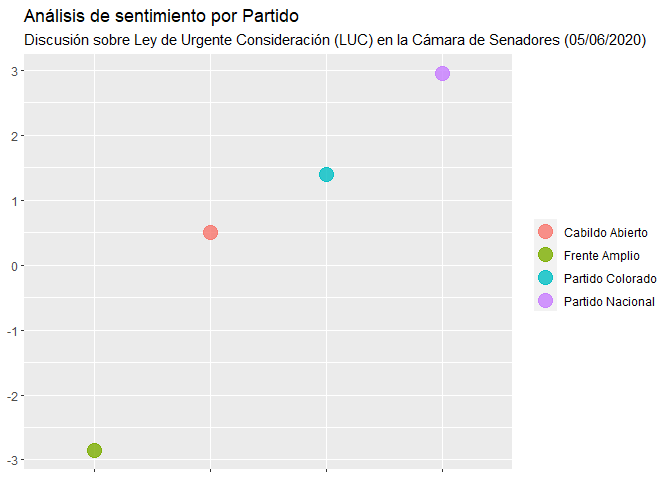
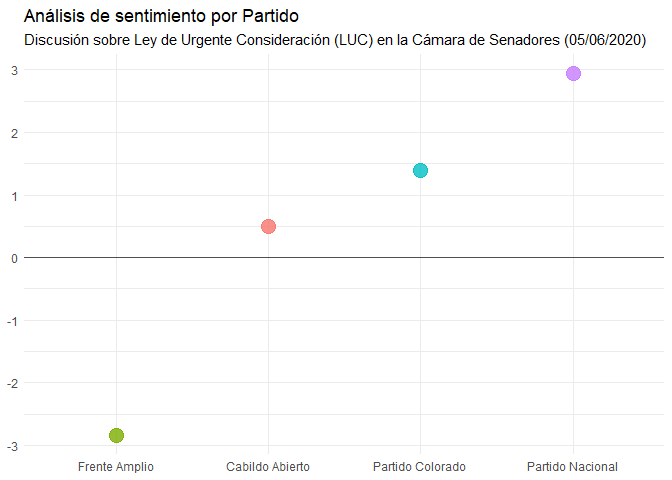
estetica

diff --git a/README.md b/README.md
@@ -1,28 +1,27 @@
 
 ## Ejemplos y usos del paquete `speech` :page\_with\_curl: <img src='figures/logo.png' align="right" height="180" />
 
-*Nicolás Schmidt*
-
-*Elina Gómez*
+*Nicolás Schmidt*, *Elina Gómez*
 
 ![visitors](https://visitor-badge.glitch.me/badge?page_id=Nicolas-Schmidt.speech-ejemplos)
 
 ### Índice
 
-  - [Descripción del paquete `speech`](#descripción)
-  - [Características del paquete `speech`](#características)
-  - [Ejemplos](#ejemplos)
-      - [Ejemplo 1: Primer sesión desde la restauración
+-   [Descripción del paquete `speech`](#descripción)
+-   [Características del paquete `speech`](#características)
+-   [Ejemplos](#ejemplos)
+    -   [Ejemplo 1: Primer sesión desde la restauración
         democrática](#ejemplo-1)
-      - [Ejemplo 2: Sesión sobre creación de Consejos de
+    -   [Ejemplo 2: Sesión sobre creación de Consejos de
         Salarios](#ejemplo-2)
-      - [Ejemplo 3: Sesión reciente de la Comisión
+    -   [Ejemplo 3: Sesión reciente de la Comisión
         Permanente](#ejemplo-3)
-      - [Ejemplo 4: Descarga de sesiones según rango
+    -   [Ejemplo 4: Descarga de sesiones según rango
         temporal](#ejemplo-4)
-  - [Posibles aplicaciones](#aplic)
-  - [Usos de `speech`](#usos)
-  - [Aplicación web de `speech` y `puy`](#aplicación-web)
+-   [Posibles aplicaciones (nube de palabras, tópicos en contexto y
+    análisis de sentimientos)](#posibles-aplicaciones)
+-   [Usos de `speech`](#usos)
+-   [Aplicación web de `speech` y `puy`](#aplicación-web)
 
 ### Descripción
 
@@ -57,8 +56,7 @@ use la función y que cada fila de la base de datos sea cada una de las
 intervenciones de cada legislador en cada momento. Esto quiere decir que
 se va a tener tantas intervenciones por legislador como cuantas
 intervenciones haya realizado en esa sesión. La otra opción (usando
-[`speech_build(., compiler =
-TRUE)`](https://nicolas-schmidt.github.io/speech/reference/speech_build.html)
+[`speech_build(., compiler = TRUE)`](https://nicolas-schmidt.github.io/speech/reference/speech_build.html)
 o
 [`speech_recompiler()`](https://nicolas-schmidt.github.io/speech/reference/speech_recompiler.html))
 es que cada fila de la base de datos sen todas las intervenciones juntas
@@ -116,11 +114,11 @@ library(speech)
 Vamos a ver 3 ejemplos que presentan distintos problemas y niveles de
 complejidad en su procesamiento:
 
-  - El diario de sesión de la Asamblea General de la reapertura
+-   El diario de sesión de la Asamblea General de la reapertura
     democrática: 15 de febrero de 1985.  
-  - Un diario de sesión sobre la creación de los consejos de salarios
+-   Un diario de sesión sobre la creación de los consejos de salarios
     del 13 de octubre de 1941.  
-  - Un diario de sesión reciente de una sesión convencional de la
+-   Un diario de sesión reciente de una sesión convencional de la
     Comisión Permanente del 17 de setiembre de 2019
 
 ### Ejemplo 1
@@ -778,7 +776,6 @@ en formato base de datos luce ordenado y limpio. Lo único que resta
 hacer es agregar la etiqueta partidaria con el paquete `puy`.
 
 ``` r
-
 library(puy)
 
 text2 <- add_party(text2)
@@ -828,10 +825,10 @@ problema es que hay datos duplicados con distinto nombre de legislador.
 Es decir, en dos casos hay más de un legislador que tiene el mismo
 apellido en la misma legislatura. En estos casos la solución es ir al
 diario de sesión y verificar en asistencia quien es el político que
-actuó en esa sesión. En este caso el nombre de los dos políticos que
-son de esta sesión son: `CHOUHY TERRA, Jose L.` y `GONZALEZ, Carmelo R`.
-De esta manera procedemos a eliminar a los otros legisladores y podemos
-dar por terminado el procesamiento de este diario de sesión.
+actuó en esa sesión. En este caso el nombre de los dos políticos que son
+de esta sesión son: `CHOUHY TERRA, Jose L.` y `GONZALEZ, Carmelo R`. De
+esta manera procedemos a eliminar a los otros legisladores y podemos dar
+por terminado el procesamiento de este diario de sesión.
 
 ``` r
 text2 <- text2[-c(11, 17, 18, 19),] # marcamos las filas en las que están los legisladores que se deben ir
@@ -938,7 +935,8 @@ print(text, n = nrow(text))
 ```
 
 Ahora podemos agregarle la etiqueta partidaria y el nombre completo a
-los legisladores con el paquete [`puy`]():
+los legisladores con el paquete
+[`puy`](https://nicolas-schmidt.github.io/puy):
 
 ``` r
 library(puy)
@@ -985,10 +983,12 @@ text[, c(1,2, 7:ncol(text))]
 ```
 
 Como se puede observar hay un solo diputado o senador que la función
-[`puy::add_party()`]() no logró identificar. Seguramente sea un diputado
-o senador suplente. Dependiendo del análisis posterior que se quiera
-hacer es si se busca por fuentes alternativas la filiación de este
-legislador o se lo puede descartar. La función [`puy::add_party()`]()
+[`puy::add_party()`](https://nicolas-schmidt.github.io/puy/reference/add_party.html)
+no logró identificar. Seguramente sea un diputado o senador suplente.
+Dependiendo del análisis posterior que se quiera hacer es si se busca
+por fuentes alternativas la filiación de este legislador o se lo puede
+descartar. La función
+[`puy::add_party()`](https://nicolas-schmidt.github.io/puy/reference/add_party.html)
 además de agregar el partido y el nombre completo del legislador agrega
 una variable a partir de la función del paquete `speech` que hace un
 conteo de palabras:
@@ -1001,9 +1001,10 @@ significativo ya que solo dice 10 palabras (las cuales seguramente sean:
 Por último, si por alguna razón necesitamos, luego de tener la base de
 datos compilada, que cada fila se corresponda con cada una de las
 intervención de un legislador y que el texto no se encuentre agrupado,
-es posible usar la función [`speech::speech_uncompiler()`]() cuyo único
-argumento *tidy\_speech* se corresponde con el resultado de la
-aplicación de [`speech_build(., compiler = TRUE)`]().
+es posible usar la función
+[`speech::speech_uncompiler()`](https://nicolas-schmidt.github.io/speech/reference/speech_uncompiler.html)
+cuyo único argumento *tidy\_speech* se corresponde con el resultado de
+la aplicación de `speech_build(., compiler = TRUE)`.
 
 ### Ejemplo 4
 
@@ -1011,13 +1012,18 @@ aplicación de [`speech_build(., compiler = TRUE)`]().
 
 Si necesitamos obtener la información sobre las intervenciones
 correspondiente a un rango de fechas determinado, es posible usar la
-función [`speech::speech_url()`]() que permite *scrapear* (descargar
-directamente de la web) las URL de las sesiones correspondientes y
-alojarlas en un vector que luego servirá como argumento de la función
-[`speech::speech_build()`](). Tal como se muestra en el ejemplo,
-necesito obtener información ordenada de todos los diarios de sesión de
-la Cámara de Representantes, entre el 20-11-2014 y el 20-11-2020, lo
-cual incluye sesiones correspondientes a tres legislaturas diferentes.
+función
+[`speech::speech_url()`](https://nicolas-schmidt.github.io/speech/reference/speech_url.html)
+que permite *scrapear* (descargar directamente de la web) las URL de las
+sesiones correspondientes y alojarlas en un vector que luego servirá
+como argumento de la función
+[`speech::speech_build()`](https://nicolas-schmidt.github.io/speech/reference/speech_build.html).
+Tal como se muestra en el ejemplo, necesito obtener información ordenada
+de todos los diarios de sesión de la Cámara de Representantes, entre el
+20-11-2014 y el 20-11-2020, lo cual incluye sesiones correspondientes a
+tres legislaturas diferentes.
+
+    #> [1] 371
 
 Esta función busca simplificar el procedimiento de obtención de URL o
 descarga de diarios de sesión de forma manual, ya que automatiza la
@@ -1034,10 +1040,10 @@ Al igual que en los ejemplos precedentes, comenzamos utilizando la
 función
 [`speech_build()`](https://nicolas-schmidt.github.io/speech/reference/speech_build.html)
 para descargar las intervenciones que me interesan, así como agregando
-la etiqueta partidaria con [`puy::add_party()`]().
+la etiqueta partidaria con
+[`puy::add_party()`](https://nicolas-schmidt.github.io/puy/reference/add_party.html).
 
 ``` r
-
 url <- "https://parlamento.gub.uy/documentosyleyes/documentos/diario-de-sesion/senadores/6145/IMG/0?width=800&height=600&hl=en_US1&iframe=true&rel=nofollow"
 
 intervenciones <- speech::speech_build(file = url)
@@ -1060,8 +1066,9 @@ dfm_intervenciones <- quanteda::dfm(quanteda::tokens(intervenciones$speech,
                                     remove_numbers = TRUE),
                                     tolower=TRUE,
                                     verbose = FALSE) %>%
-  quanteda::dfm_remove(pattern = c(quanteda::stopwords("spanish"),tolower(intervenciones$legislator)),min_nchar=3)%>%
-  quanteda::dfm_group(groups = intervenciones$party)
+                                    quanteda::dfm_remove(pattern = c(quanteda::stopwords("spanish"), 
+                                                                     tolower(intervenciones$legislator)), min_nchar = 3) %>%
+                                    quanteda::dfm_group(groups = intervenciones$party)
 ```
 
 En segundo lugar, generamos una nube de palabras segmentada por partido
@@ -1070,20 +1077,25 @@ más frecuentes se observan diferencias en el foco de la discusión de la
 Ley entre los partidos:
 
 ``` r
-quanteda.textplots::textplot_wordcloud(dfm_intervenciones, min.count = 2,max_words = 500,
-random.order = FALSE,colors = RColorBrewer::brewer.pal(8,"Dark2"),comparison = T)
+quanteda.textplots::textplot_wordcloud(dfm_intervenciones, 
+                                       min.count = 2, 
+                                       max_words = 500,
+                                       random.order = FALSE ,
+                                       colors = RColorBrewer::brewer.pal(8,"Dark2"),
+                                       comparison = TRUE)
 ```
 
 <img src="figures/README-unnamed-chunk-23-1.png" width="80%" />
 
-Utilizamos la función [`quanteda::textstat_simil()`]() de *quanteda*
-para construir una matriz de distancias (según co-ocurrencia) y calcular
-la *correlación* entre un término, en este caso *“luc”*,y otras palabras
-que aparecen en las intervenciones. A continuación se imprimen las 15
-palabras con mayor correlación con dicho término.
+Utilizamos la función
+[`quanteda::textstat_simil()`](https://quanteda.io/reference/textstat_simil.html)
+de *quanteda* para construir una matriz de distancias (según
+co-ocurrencia) y calcular la *correlación* entre un término, en este
+caso *“luc”*,y otras palabras que aparecen en las intervenciones. A
+continuación se imprimen las 15 palabras con mayor correlación con dicho
+término.
 
 ``` r
-
 quanteda.textstats::textstat_simil(dfm_intervenciones,selection = "luc",
 method = "correlation",margin = "features")%>%
   as.data.frame()%>%
@@ -1107,7 +1119,8 @@ method = "correlation",margin = "features")%>%
 #> 15        lado      luc   0.9980516
 ```
 
-Así también podemos ver con la función [`quanteda::kwic()`]() el
+Así también podemos ver con la función
+[`quanteda::kwic()`](https://quanteda.io/reference/kwic.html) el
 contexto de aparición de una palabra, término o frase, según una ventana
 (cantidad de palabras previas y posteriores) determinada, en este caso
 15. Extraer el contexto de ciertos términos puede ser de utilidad para
@@ -1116,16 +1129,17 @@ comparativo.
 
 ``` r
 quanteda::kwic(quanteda::tokens(intervenciones$speech,
-                                    remove_punct = TRUE,
-                                    remove_numbers = TRUE), 
-pattern = quanteda::phrase(c("ley de urgente consideración")),
-window = 15)
+                                remove_punct = TRUE,
+                                remove_numbers = TRUE), 
+                                pattern = quanteda::phrase(c("ley de urgente consideración")),
+                                window = 15)
 ```
 
 <img src="figures/README-unnamed-chunk-27-1.png" width="80%" />
 
-Por último, con el paquete [`syuzhet`]() analizo el sentimiento de las
-intervenciones agrupadas por partido. La función
+Por último, con el paquete
+[`syuzhet`](https://CRAN.R-project.org/package=syuzhet) analizo el
+sentimiento de las intervenciones agrupadas por partido. La función
 [`syuzhet::get_sentiment()`]() establece un puntaje resumen al texto a
 partir de la aparición de palabras en diccionarios de sentimientos que
 identifican cada una como *positiva* o *negativa*. En este caso vemos el
@@ -1135,15 +1149,27 @@ la oposición tienen un puntaje sensiblemente más negativo que los
 partidos de la coalición.
 
 ``` r
+library(ggplot2)
+
 intervenciones %>%
-  filter(party!="NA")%>%
-  group_by(party) %>%
-  summarise(speech_p = paste(speech, collapse = " "))%>%
-  mutate(Sentiment_syuzhet = syuzhet::get_sentiment(speech_p, method = "syuzhet",language = "spanish"))%>%
-ggplot2::ggplot(ggplot2::aes(x=factor(party, level = c("Frente Amplio","Cabildo Abierto","Partido Colorado","Partido Nacional")), y=Sentiment_syuzhet, color=party))+
-  ggplot2::geom_point(size=5, alpha=0.8) +
-  ggplot2::ggtitle("Análisis de sentimiento por Partido",subtitle = "Discusión sobre Ley de Urgente Consideración (LUC) en la Cámara de Senadores (05/06/2020)")+
-  ggplot2::theme(axis.title.y =ggplot2::element_blank() , axis.text.x =ggplot2::element_blank(),axis.title.x =ggplot2::element_blank(),legend.title=ggplot2::element_blank()) 
+    filter(party != "NA") %>%
+    group_by(party) %>%
+    summarise(speech_p = paste(speech, collapse = " ")) %>%
+    mutate(Sentiment_syuzhet = syuzhet::get_sentiment(speech_p, method = "syuzhet", language = "spanish")) %>%
+    ggplot(aes(x = factor(party, level = c("Frente Amplio", 
+                                           "Cabildo Abierto", 
+                                           "Partido Colorado", 
+                                           "Partido Nacional")), 
+               y = Sentiment_syuzhet, color = party)) +
+    geom_point(size = 5, alpha = 0.8) +
+    ggtitle("Análisis de sentimiento por Partido", 
+            subtitle = "Discusión sobre Ley de Urgente Consideración (LUC) en la Cámara de Senadores (05/06/2020)") +
+    geom_hline(yintercept = 0, color = "#4F4D4D") +
+    theme_minimal() +
+    theme(axis.title.y = element_blank(), 
+          axis.title.x = element_blank(),
+          legend.title = element_blank(), 
+          legend.position = "none") 
 ```
 
 <img src="figures/README-unnamed-chunk-28-1.png" width="80%" />
@@ -1153,9 +1179,9 @@ ggplot2::ggplot(ggplot2::aes(x=factor(party, level = c("Frente Amplio","Cabildo 
 En esta sección se deja constancia del uso que distintos usuarios hacen
 o han hecho del paquete `speech`.
 
-  - **La temática de género en el Parlamento uruguayo**:
+-   **La temática de género en el Parlamento uruguayo**:
     [aquí](https://www.elinagomez.com/blog/2020-09-25-parlamento-genero/#fnref2)
-      - [Elina Gómez](https://www.elinagomez.com/)
+    -   [Elina Gómez](https://www.elinagomez.com/)
 
 ## Aplicación web
 
